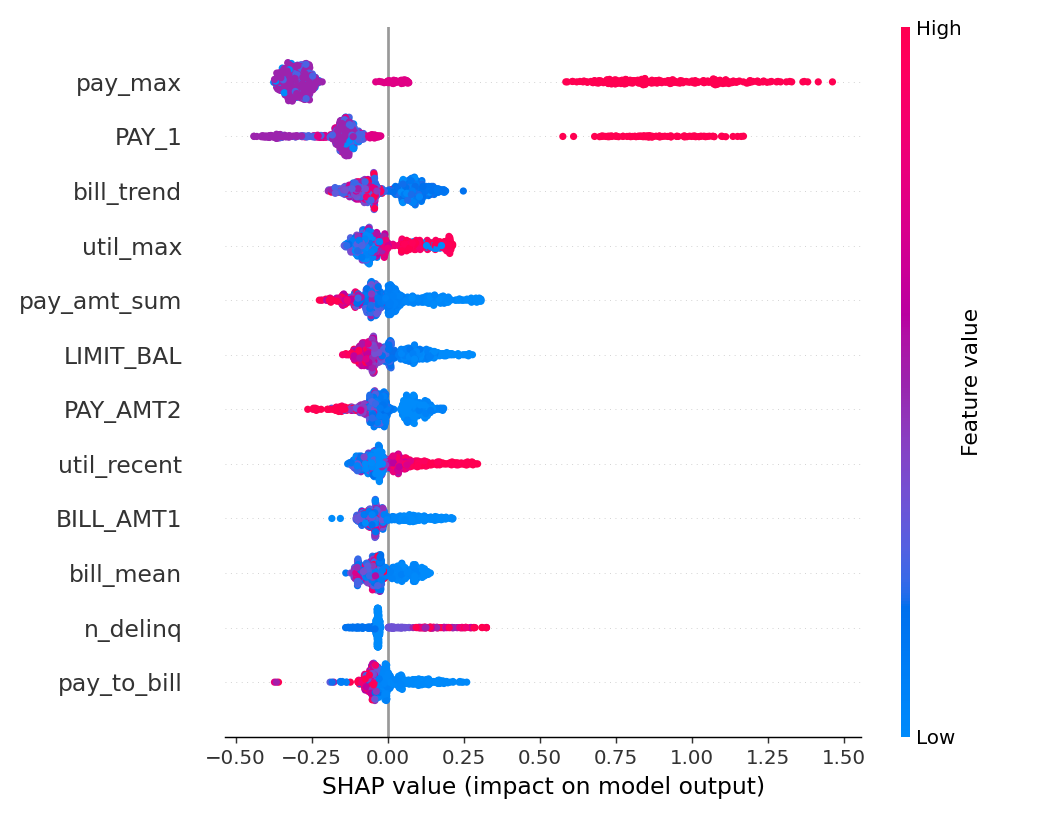
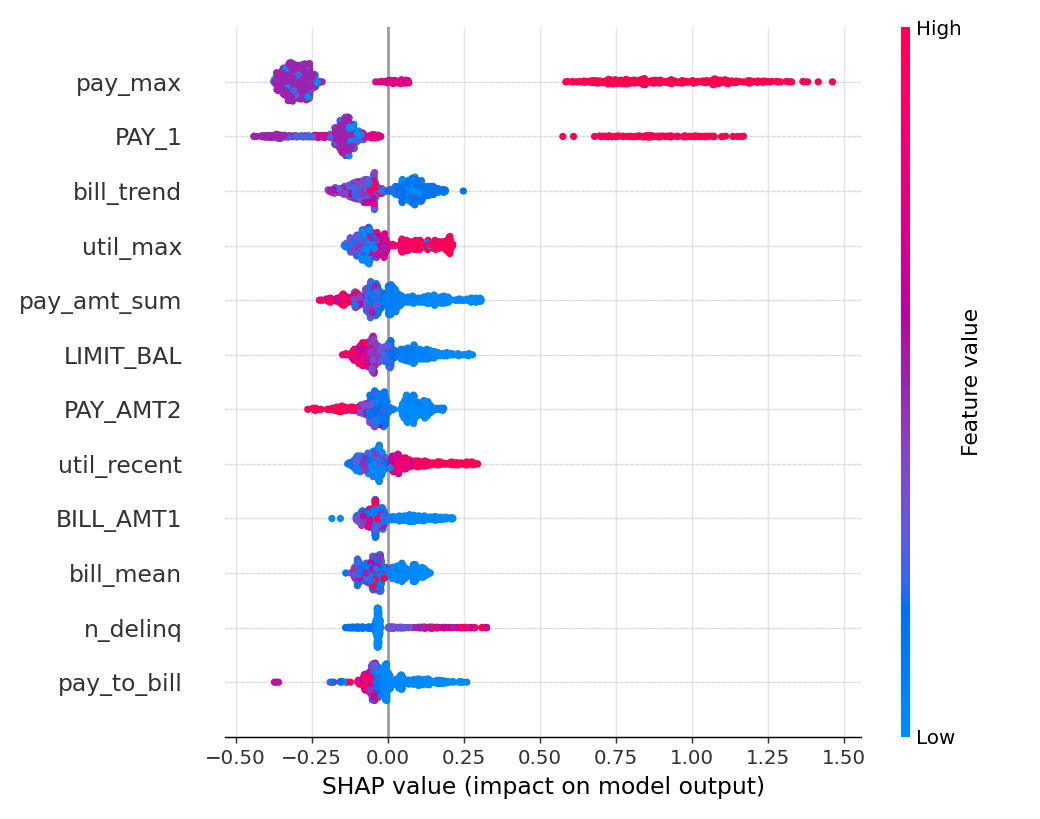
Clean README, add ROC/PR/calibration/KS performance figure, tidy presentation

diff --git a/src/pipeline.py b/src/pipeline.py
@@ -22,7 +22,7 @@ from sklearn.linear_model import LogisticRegression
 from sklearn.ensemble import HistGradientBoostingClassifier
 from sklearn.calibration import CalibratedClassifierCV, calibration_curve
 from sklearn.pipeline import Pipeline
-from sklearn.metrics import roc_auc_score, brier_score_loss, roc_curve
+from sklearn.metrics import roc_auc_score, brier_score_loss, roc_curve, precision_recall_curve, average_precision_score
 from sklearn.inspection import permutation_importance
 warnings.filterwarnings("ignore")
 
@@ -72,15 +72,25 @@ m_gbm, p_te = evaluate("HistGradientBoosting + isotonic (champion)", gbm)
 for m in (m_logit, m_gbm): print(m)
 champion = "HistGradientBoosting + isotonic"
 
-# ---------- ROC + calibration ----------
-fig, ax = plt.subplots(1, 2, figsize=(11, 4.2))
-for nm, p in [("LogReg", p_logit), ("GBM", p_te)]:
-    fpr, tpr, _ = roc_curve(y_te, p); ax[0].plot(fpr, tpr, label=f"{nm} (AUC={roc_auc_score(y_te,p):.3f})")
-ax[0].plot([0, 1], [0, 1], "k--", lw=.8); ax[0].set(title="ROC", xlabel="FPR", ylabel="TPR"); ax[0].legend()
-fp, mp = calibration_curve(y_te, p_te, n_bins=10, strategy="quantile")
-ax[1].plot(mp, fp, "o-", label="GBM+isotonic"); ax[1].plot([0, 1], [0, 1], "k--", lw=.8)
-ax[1].set(title="Calibration (champion)", xlabel="Predicted PD", ylabel="Observed default rate"); ax[1].legend()
-plt.tight_layout(); plt.savefig(OUT / "roc_calibration.png", dpi=130); plt.close()
+# ---------- performance visuals: ROC / precision-recall / calibration / score separation ----------
+plt.rcParams.update({"font.size": 10, "axes.grid": True, "grid.alpha": .3,
+                     "axes.spines.top": False, "axes.spines.right": False})
+base_rate = float(y_te.mean()); COL = {"LogReg": "#9aa0b5", "GBM": "#1f77b4"}
+fig, ax = plt.subplots(2, 2, figsize=(11, 8.6))
+for nm, p in [("LogReg", p_logit), ("GBM", p_te)]:                                   # ROC
+    fpr, tpr, _ = roc_curve(y_te, p); ax[0, 0].plot(fpr, tpr, color=COL[nm], lw=2, label=f"{nm}  AUC={roc_auc_score(y_te, p):.3f}")
+ax[0, 0].plot([0, 1], [0, 1], "k--", lw=.8); ax[0, 0].set(title="ROC curve", xlabel="False positive rate", ylabel="True positive rate"); ax[0, 0].legend(loc="lower right", frameon=False)
+for nm, p in [("LogReg", p_logit), ("GBM", p_te)]:                                   # precision-recall
+    pr, rc, _ = precision_recall_curve(y_te, p); ax[0, 1].plot(rc, pr, color=COL[nm], lw=2, label=f"{nm}  AP={average_precision_score(y_te, p):.3f}")
+ax[0, 1].axhline(base_rate, ls="--", color="k", lw=.8, label=f"base rate {base_rate:.2f}"); ax[0, 1].set(title="Precision-Recall curve", xlabel="Recall", ylabel="Precision"); ax[0, 1].legend(loc="upper right", frameon=False)
+fp, mp = calibration_curve(y_te, p_te, n_bins=10, strategy="quantile")               # calibration
+ax[1, 0].plot(mp, fp, "o-", color=COL["GBM"], label="GBM + isotonic"); ax[1, 0].plot([0, 1], [0, 1], "k--", lw=.8, label="perfect")
+ax[1, 0].set(title="Calibration (champion)", xlabel="Mean predicted PD", ylabel="Observed default rate"); ax[1, 0].legend(loc="upper left", frameon=False)
+ax[1, 1].hist(p_te[y_te.values == 0], bins=40, density=True, alpha=.6, color="#2ca02c", label="repaid")   # score separation
+ax[1, 1].hist(p_te[y_te.values == 1], bins=40, density=True, alpha=.6, color="#d62728", label="defaulted")
+ax[1, 1].set(title=f"Score separation  (KS={ks_stat(y_te.values, p_te):.3f})", xlabel="Predicted PD", ylabel="Density"); ax[1, 1].legend(loc="upper right", frameon=False)
+fig.suptitle("Champion model — hold-out performance (HistGradientBoosting + isotonic)", fontsize=12)
+plt.tight_layout(); plt.savefig(OUT / "model_performance.png", dpi=130, bbox_inches="tight"); plt.close()
 
 # ---------- decision cutoff, fairness ----------
 cutoff = np.quantile(p_te, 0.70); declined = p_te >= cutoff

diff --git a/README.md b/README.md
@@ -1,63 +1,73 @@
-# Credit-Decision PD Model — a governed, AI-augmented workflow
+# Credit Default Prediction — a validated, governed PD model
 
-A compact, end-to-end **probability-of-default (PD) model** for a lending decision, built the way a
-defensible credit-risk function should be: not just a classifier, but **validation, fairness, explainability,
-failure-mode analysis, and an AI-augmented adverse-action layer** — with the governance documented up front.
+A probability-of-default (PD) model on the UCI credit-card dataset, built end to end the way a
+credit-risk function needs before a model ships: leakage-safe features, cross-validated tuning,
+calibrated probabilities, and explicit validation, fairness, explainability, and failure-mode checks.
 
-Built as a work sample for a *Modeling & Risk Management* role: it mirrors, in miniature, an
-**AI-augmented credit-risk function** — models that drive portfolio decisions, the governance that keeps
-them accurate and defensible, and the human/AI boundary around them.
+> Data: **UCI "Default of Credit Card Clients"** (Taiwan, 2005; 30,000 accounts). Public — nothing proprietary.
 
-> Data: **UCI "Default of Credit Card Clients"** (Taiwan, 2005; 30,000 accounts) — public, see `data/README.md`.
-> Nothing here uses proprietary data.
+## Data
+30,000 accounts, 23 raw features: credit limit, demographics, and six months of repayment status,
+bill amounts, and payments. Target is default in the following month (22.1% base rate). Undocumented
+`EDUCATION`/`MARRIAGE` codes are folded into "other" as a logged data-quality step.
 
-## What it demonstrates (mapped to a credit-risk mandate)
-| Capability | Where |
-|---|---|
-| Build **and validate** ML models (not just use them) | `src/pipeline.py` → LogReg baseline + GBM challenger |
-| Credit-standard validation: **AUC, Gini, KS, calibration, PSI (stability)** | `outputs/metrics.json`, `roc_calibration.png` |
-| **Fairness / bias** across segments (sex, age, education) | `outputs/fairness.csv` |
-| **Explainability** (coefficients, permutation importance, **SHAP**) | `outputs/shap_summary.png`, `metrics.json` |
-| **Failure-mode analysis** — where the model breaks and why | `outputs/findings.md` |
-| **AI-augmented** adverse-action reason codes (LLM, grounded in real drivers) | `src/ai_reason_codes.py` → `outputs/reason_codes_example.md` |
-| **Governance** — validation cadence, human checkpoints, OSFI E-23 / FCAC alignment | `MODEL_CARD.md` |
+## Approach
+- **Features** — 23 → 36 leakage-safe features (utilization, delinquency streaks, payment-to-bill
+  ratios, balance/delinquency trends). Every feature is a per-row transform of pre-decision history:
+  no cross-row statistics, no target, no future information.
+- **Models** — a logistic-regression scorecard baseline and a HistGradientBoosting challenger, with
+  probabilities isotonic-calibrated.
+- **Validation** — a 30% hold-out is split off once and never used for fitting, tuning, or calibration.
+  Hyperparameters are tuned by 5-fold CV on the training set only, and CV AUC plus the train–test gap
+  are reported so overfitting is measured rather than assumed away.
 
-## Results (30% hold-out — untouched until final evaluation)
-| Model | AUC | Gini | KS | Brier | PSI | train AUC | gap |
-|---|--:|--:|--:|--:|--:|--:|--:|
-| Logistic regression (scorecard baseline) | 0.754 | 0.509 | 0.397 | 0.192 | 0.001 | 0.765 | 0.010 |
-| **HistGradientBoosting + isotonic (champion)** | **0.784** | **0.569** | **0.429** | **0.134** | **0.001** | 0.815 | 0.031 |
+## Results (30% hold-out)
 
-Leakage-safe feature engineering (23 → 36 features), hyperparameters CV-tuned on train, probabilities isotonic-calibrated inside train.
-**Validity:** 5-fold CV AUC on train = **0.787** ≈ test AUC **0.784**; train–test gap **0.031**; PSI ≈ 0 — a credible,
-well-validated lift, not an overfit or leaked one. (On this well-known dataset, an AUC far above ~0.80 would itself
-be a red flag for leakage — so the goal was a *validated* result, not a vanity number.) Top driver: **recent repayment status (`PAY_1`)**.
+| Model | AUC | Gini | KS | Brier | PSI |
+|---|--:|--:|--:|--:|--:|
+| Logistic regression (baseline) | 0.754 | 0.509 | 0.397 | 0.192 | 0.001 |
+| **HistGradientBoosting + isotonic** | **0.784** | **0.569** | **0.429** | **0.134** | **0.001** |
 
-**What it gets wrong (see `outputs/findings.md`):** calibration drifts in the high-risk tail (least reliable exactly
-where declines happen → route to human review); discrimination is uneven across segments (a single global cutoff
-isn't equally fair/accurate for every group); and a set of confidently-approved accounts still default — the silent,
-costly errors that pure auto-approval would miss. These were found by validating the model **against its own
-assumptions**, not the headline AUC.
+5-fold CV AUC on train is 0.787, in line with the 0.784 hold-out (train–test gap 0.031, PSI ≈ 0), so
+the lift is validated rather than overfit. On this well-studied dataset an AUC far above ~0.80 usually
+points to leakage, so a credible 0.78 was the target, not a higher vanity number.
 
-## Run it
+![Champion model hold-out performance: ROC, precision-recall, calibration, score separation](outputs/model_performance.png)
+
+## Explainability
+
+Global importance from logistic coefficients, permutation importance, and SHAP. The dominant driver is
+the most recent repayment status (`PAY_1`). Per-applicant SHAP values feed the adverse-action layer.
+
+![SHAP summary](outputs/shap_summary.png)
+
+## Where it breaks (`outputs/findings.md`)
+- Calibration is weakest in the high-risk tail, exactly where declines happen — route those to human
+  review rather than auto-decline.
+- Discrimination is uneven across segments, so a single global cutoff is not equally fair or accurate.
+- A set of confidently-approved accounts (PD < 10%) still default: the silent false negatives that
+  pure auto-approval would miss.
+
+## Fairness & governance
+Discrimination and decline rates are computed across sex, age band, and education (`outputs/fairness.csv`);
+parity is reasonable on sex and age but weak on education, which is flagged as a fairness risk.
+[`MODEL_CARD.md`](MODEL_CARD.md) covers intended use, limitations, monitoring (PSI and calibration drift),
+human checkpoints, and alignment to **OSFI E-23** and **FCAC**. The LLM adverse-action layer may cite only
+the model's actual top risk drivers for a given applicant — it cannot introduce factors the model did not use.
+
+## Run
 ```bash
 pip install -r requirements.txt
-python3 src/download_data.py         # fetches the public UCI dataset into data/
-python3 src/pipeline.py              # build → validate → fairness → explainability → failure modes
-python3 src/ai_reason_codes.py       # AI adverse-action notices (set ANTHROPIC_API_KEY to use the LLM)
+python3 src/download_data.py      # fetch the public UCI dataset into data/
+python3 src/pipeline.py           # build, validate, fairness, explainability, failure modes
+python3 src/ai_reason_codes.py    # adverse-action notices (set ANTHROPIC_API_KEY to use the LLM)
 ```
 
 ## Structure
 ```
-src/pipeline.py          model build, validation, fairness, explainability, failure-mode analysis
-src/ai_reason_codes.py   LLM/agentic adverse-action layer (grounded in the model's real SHAP drivers)
-src/download_data.py     fetch the public dataset
-outputs/                 metrics.json, fairness.csv, findings.md, plots, reason_codes_example.md
-MODEL_CARD.md            intended use, performance, fairness, limitations, monitoring & regulatory alignment
+src/pipeline.py         model build, validation, fairness, explainability, failure-mode analysis
+src/features.py         shared leakage-safe feature engineering
+src/ai_reason_codes.py  LLM adverse-action layer, grounded in the model's real SHAP drivers
+outputs/                metrics.json, fairness.csv, findings.md, plots
+MODEL_CARD.md           intended use, performance, limitations, monitoring, governance
 ```
-
-## Governance note
-The AI layer is deliberately constrained: it may cite **only** the model's actual top risk drivers for an
-application — it cannot introduce factors the model did not use. Model risk, monitoring cadence, human
-checkpoints, and alignment to **OSFI E-23** (model risk management) and **FCAC** (plain-language adverse action)
-are documented in [`MODEL_CARD.md`](MODEL_CARD.md).

diff --git a/MODEL_CARD.md b/MODEL_CARD.md
@@ -22,7 +22,7 @@ and challenger–champion comparison.
 Champion (HistGradientBoosting + isotonic): **AUC 0.784 · Gini 0.569 · KS 0.429 · Brier 0.134 · PSI 0.001**.
 **Validity:** 5-fold CV AUC on train 0.787 ≈ test 0.784; train–test AUC gap 0.031 (no material overfitting);
 23→36 leakage-safe engineered features, CV-tuned, isotonic-calibrated inside train. Full numbers in
-`outputs/metrics.json`; ROC & calibration in `outputs/roc_calibration.png`.
+`outputs/metrics.json`; ROC, precision-recall, calibration & score separation in `outputs/model_performance.png`.
 
 ## Fairness assessment
 Discrimination and decline rates computed across **sex, age band, and education** (`outputs/fairness.csv`).